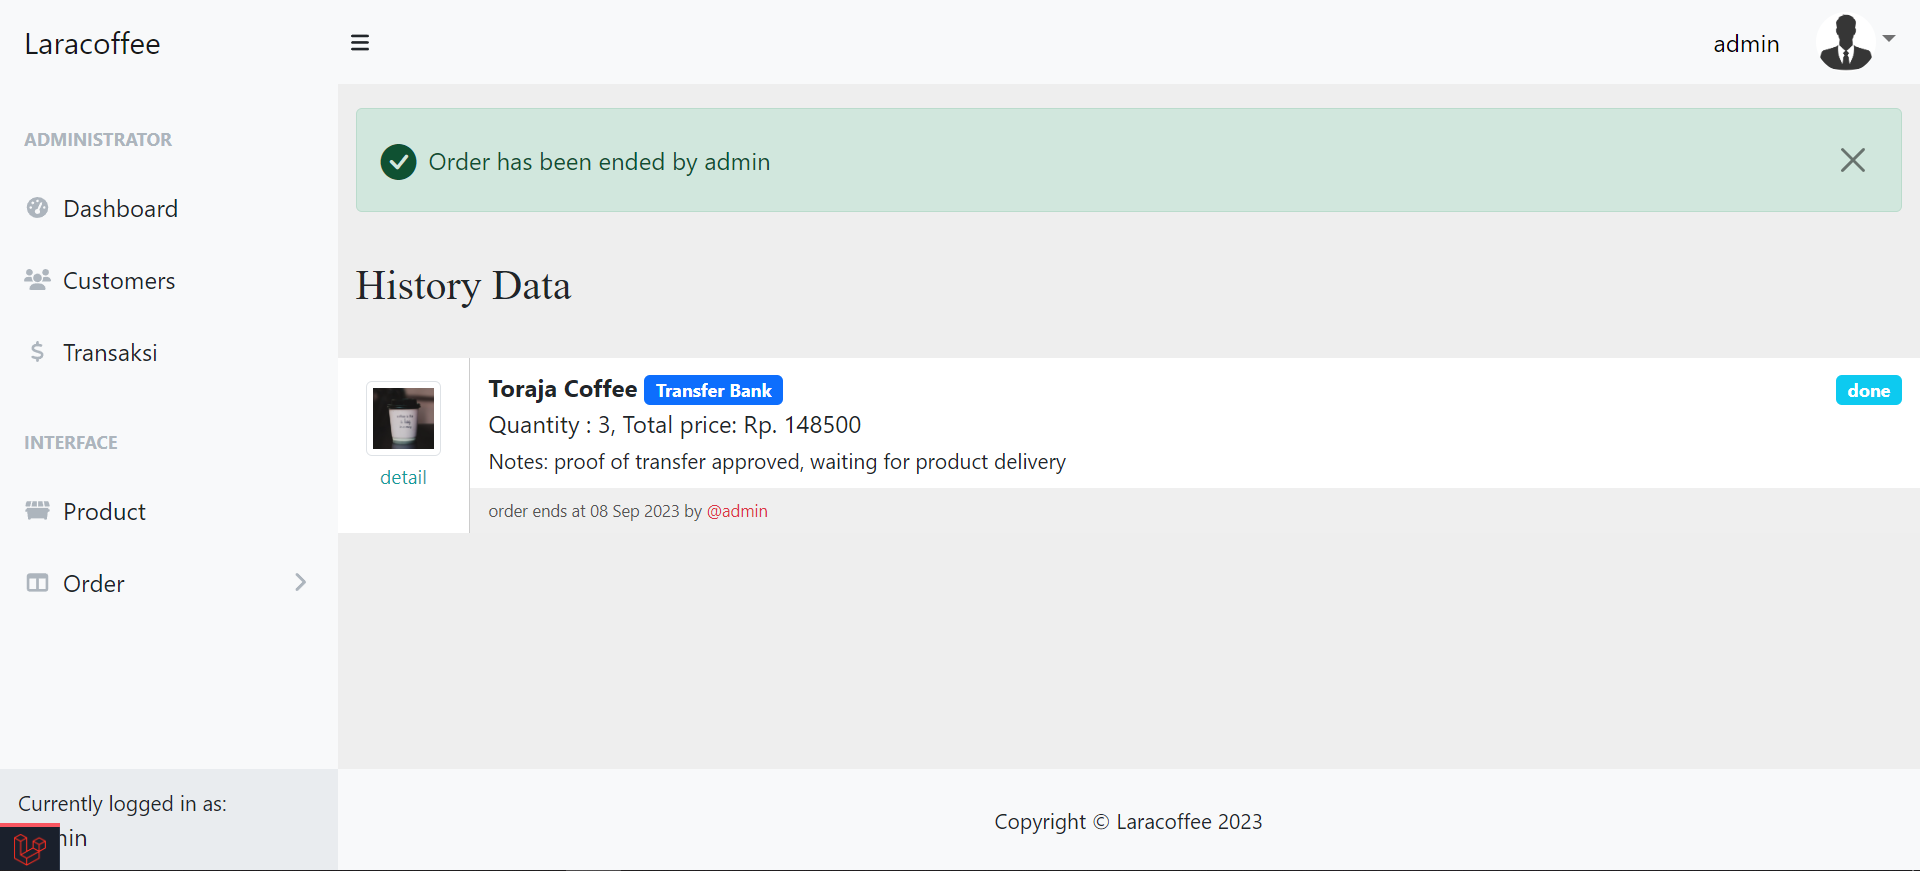
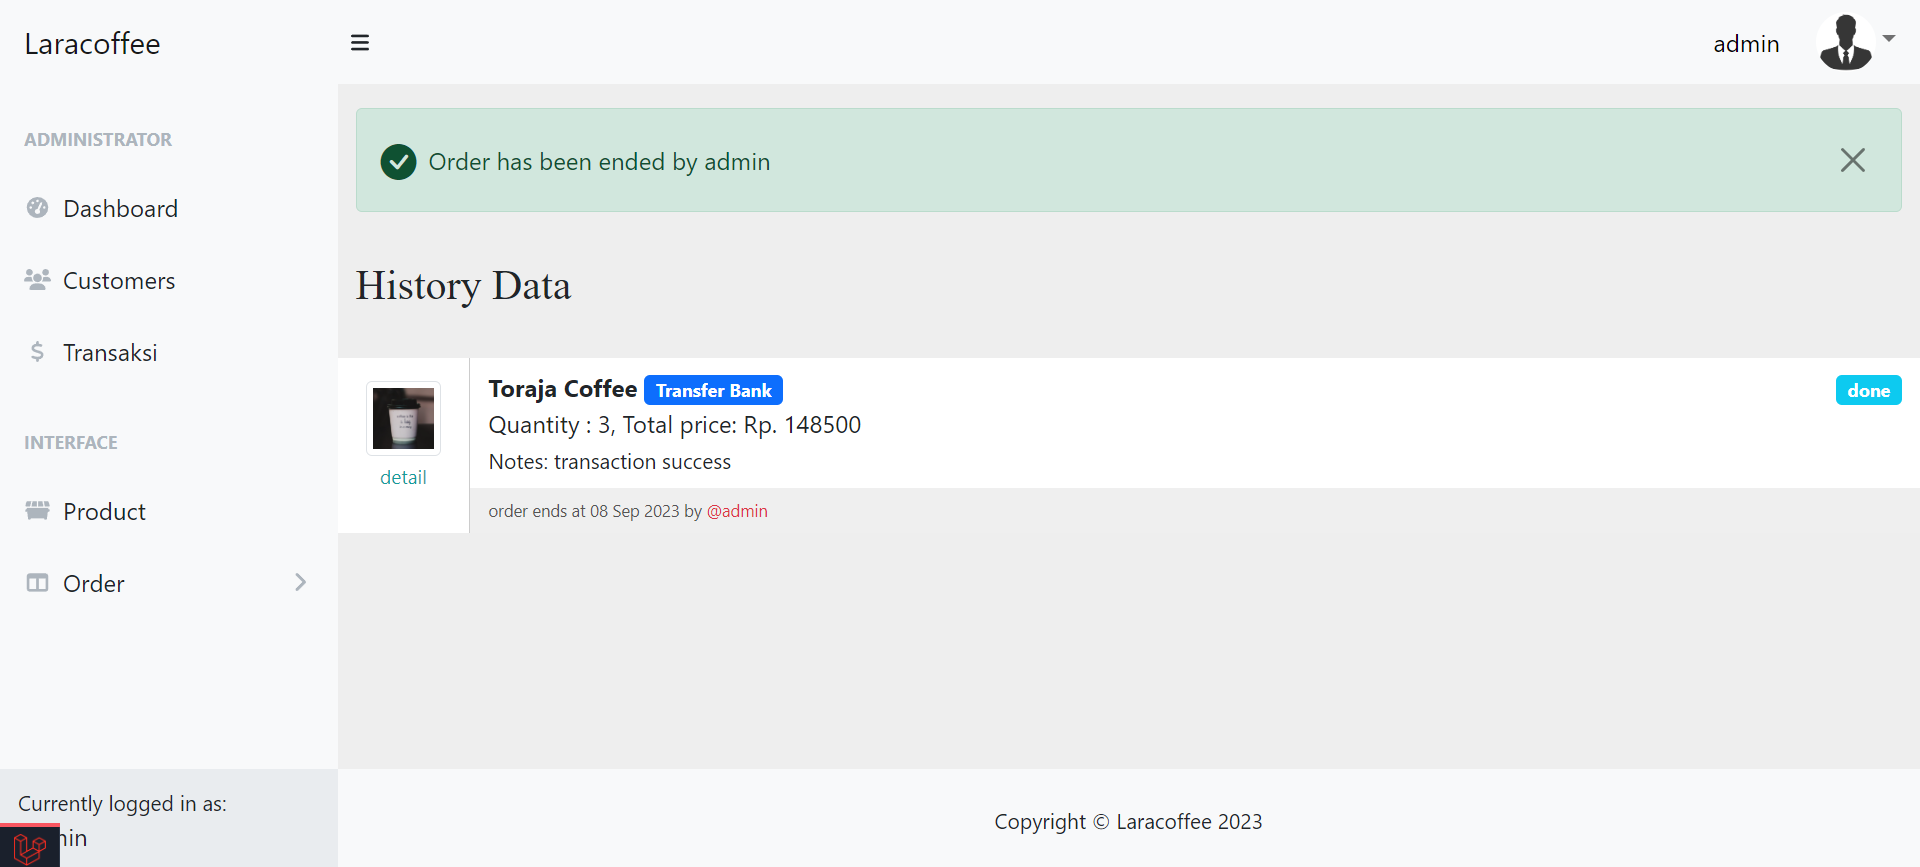
Fix some issues

diff --git a/app/Http/Controllers/OrderController.php b/app/Http/Controllers/OrderController.php
@@ -162,6 +162,13 @@ class OrderController extends Controller
             return redirect("/order/order_data");
         }
 
+        if ($order->status_id == 4) {
+            $message = "Order status is already succeded by admin";
+
+            myFlasherBuilder(message: $message, failed: true);
+            return redirect("/order/order_data");
+        }
+
         if ($order->status_id == 5) {
             $message = "Order status is already canceled by user";
 
@@ -276,6 +283,13 @@ class OrderController extends Controller
 
     public function endOrder(Order $order, Product $product)
     {
+        if ($order->status->order_status == "done") {
+            $message = "The order has already succeded by admin!";
+            myFlasherBuilder(message: $message, failed: true);
+
+            return redirect("/order/order_data");
+        }
+
         if ($order->status->order_status != "approve") {
             $message = "Order has not been approved by the admin!";
             myFlasherBuilder(message: $message, failed: true);
@@ -286,7 +300,7 @@ class OrderController extends Controller
         // change order status
         $updated_data = [
             "status_id" => 4,
-            "note_id" => $order->payment->payment_method == "COD" ? 1 : 4,
+            "note_id" => 5,
             "is_done" => 1,
             "refusal_reason" => null,
         ];
